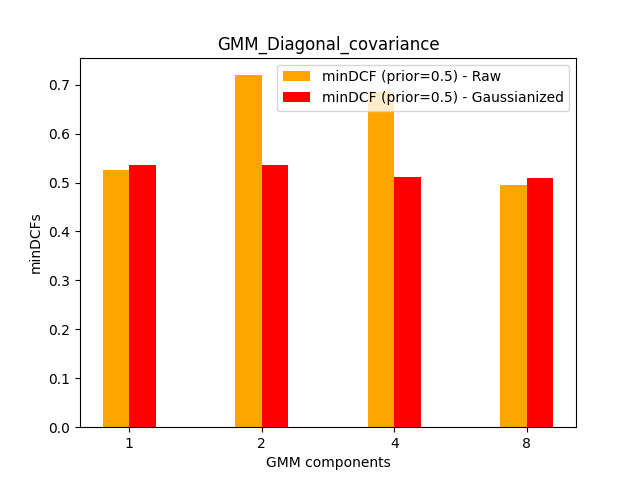
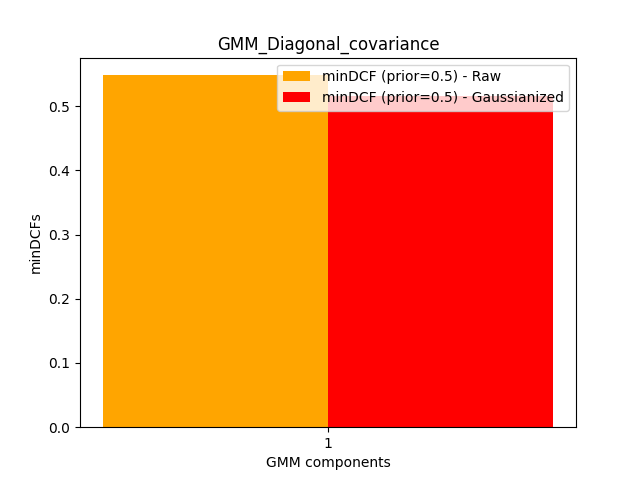
finito

diff --git a/main.py b/main.py
@@ -777,7 +777,7 @@ def print_graphs_GMM_minDCF(DTR, LTR, k):
 
 
     def GMM_compute_DCFs(DTR, LTR, k, covariance_type, prior, cost_fn, cost_fp):
-        gmm_comp = [1,2,4,8]
+        gmm_comp = [1]
 
         raw_minDCFs = []
         gau_minDCFs = []
@@ -786,8 +786,8 @@ def print_graphs_GMM_minDCF(DTR, LTR, k):
         gaussianizedFeatures = gaussianization(DTR)
 
         constrained=True
-        psi=1
-        alpha=0.0001
+        psi=0.01
+        alpha=0.1
         delta_l=10**(-6)
     
         print("************************" + covariance_type + "*************************")
